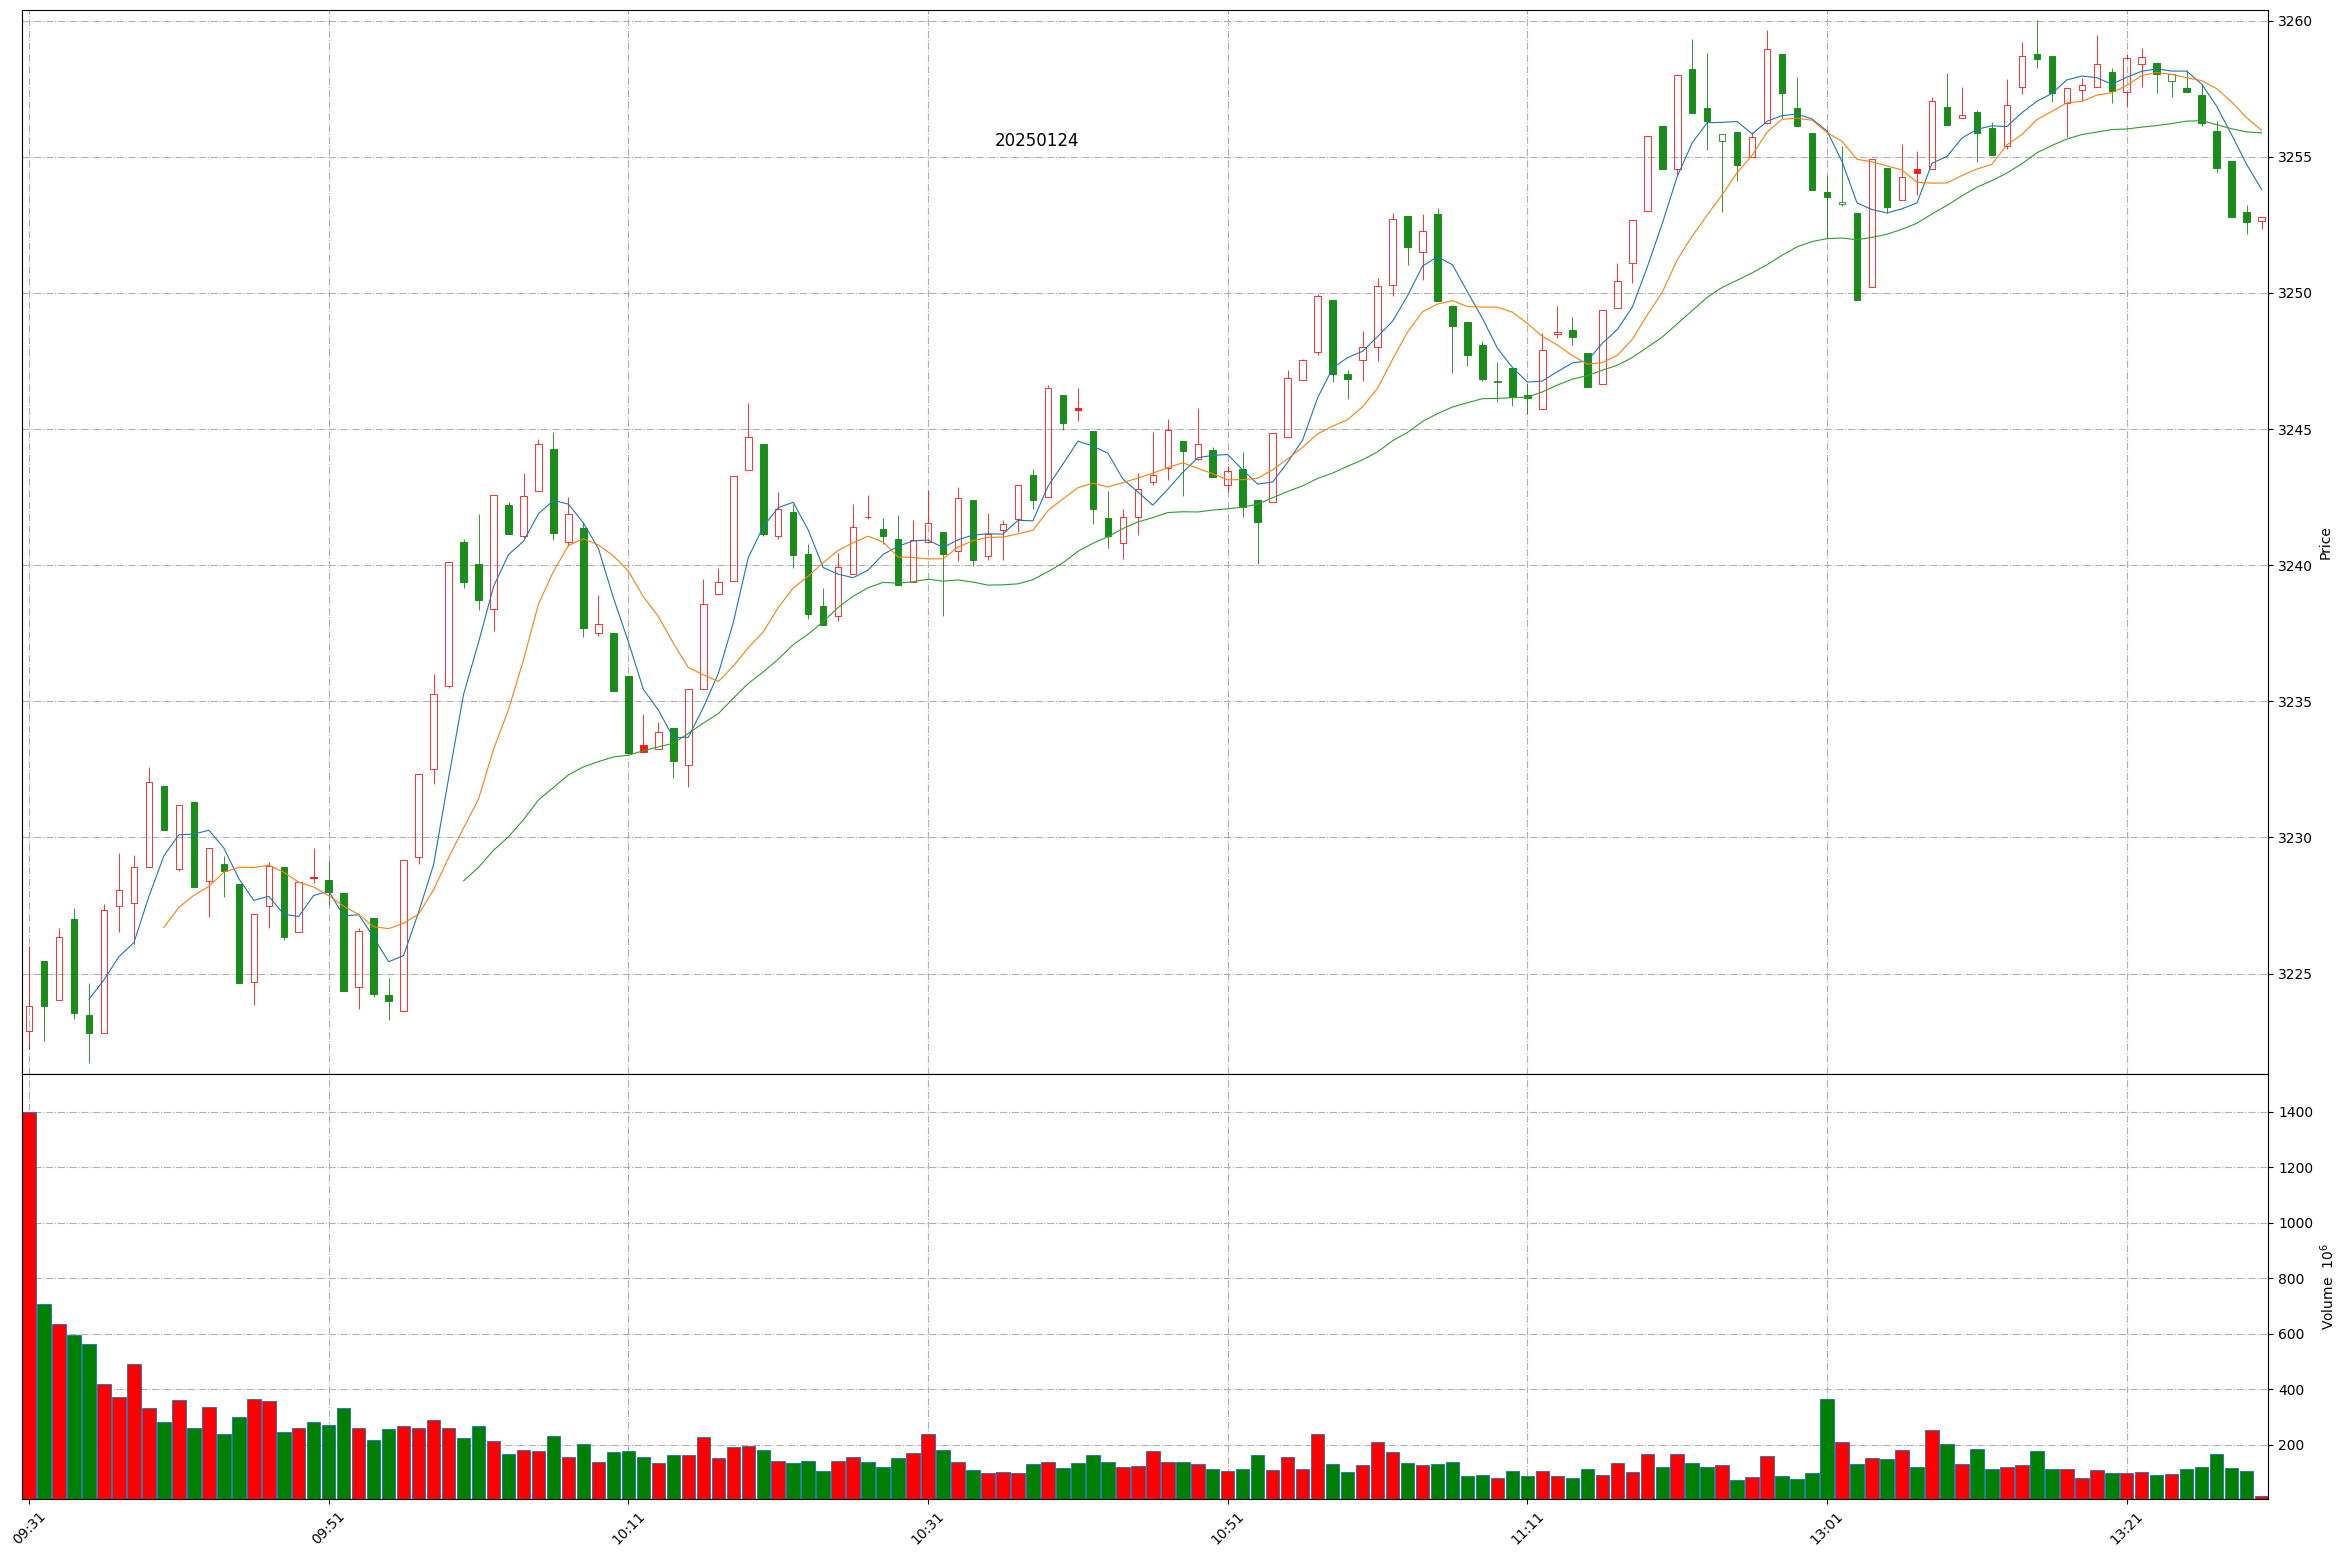
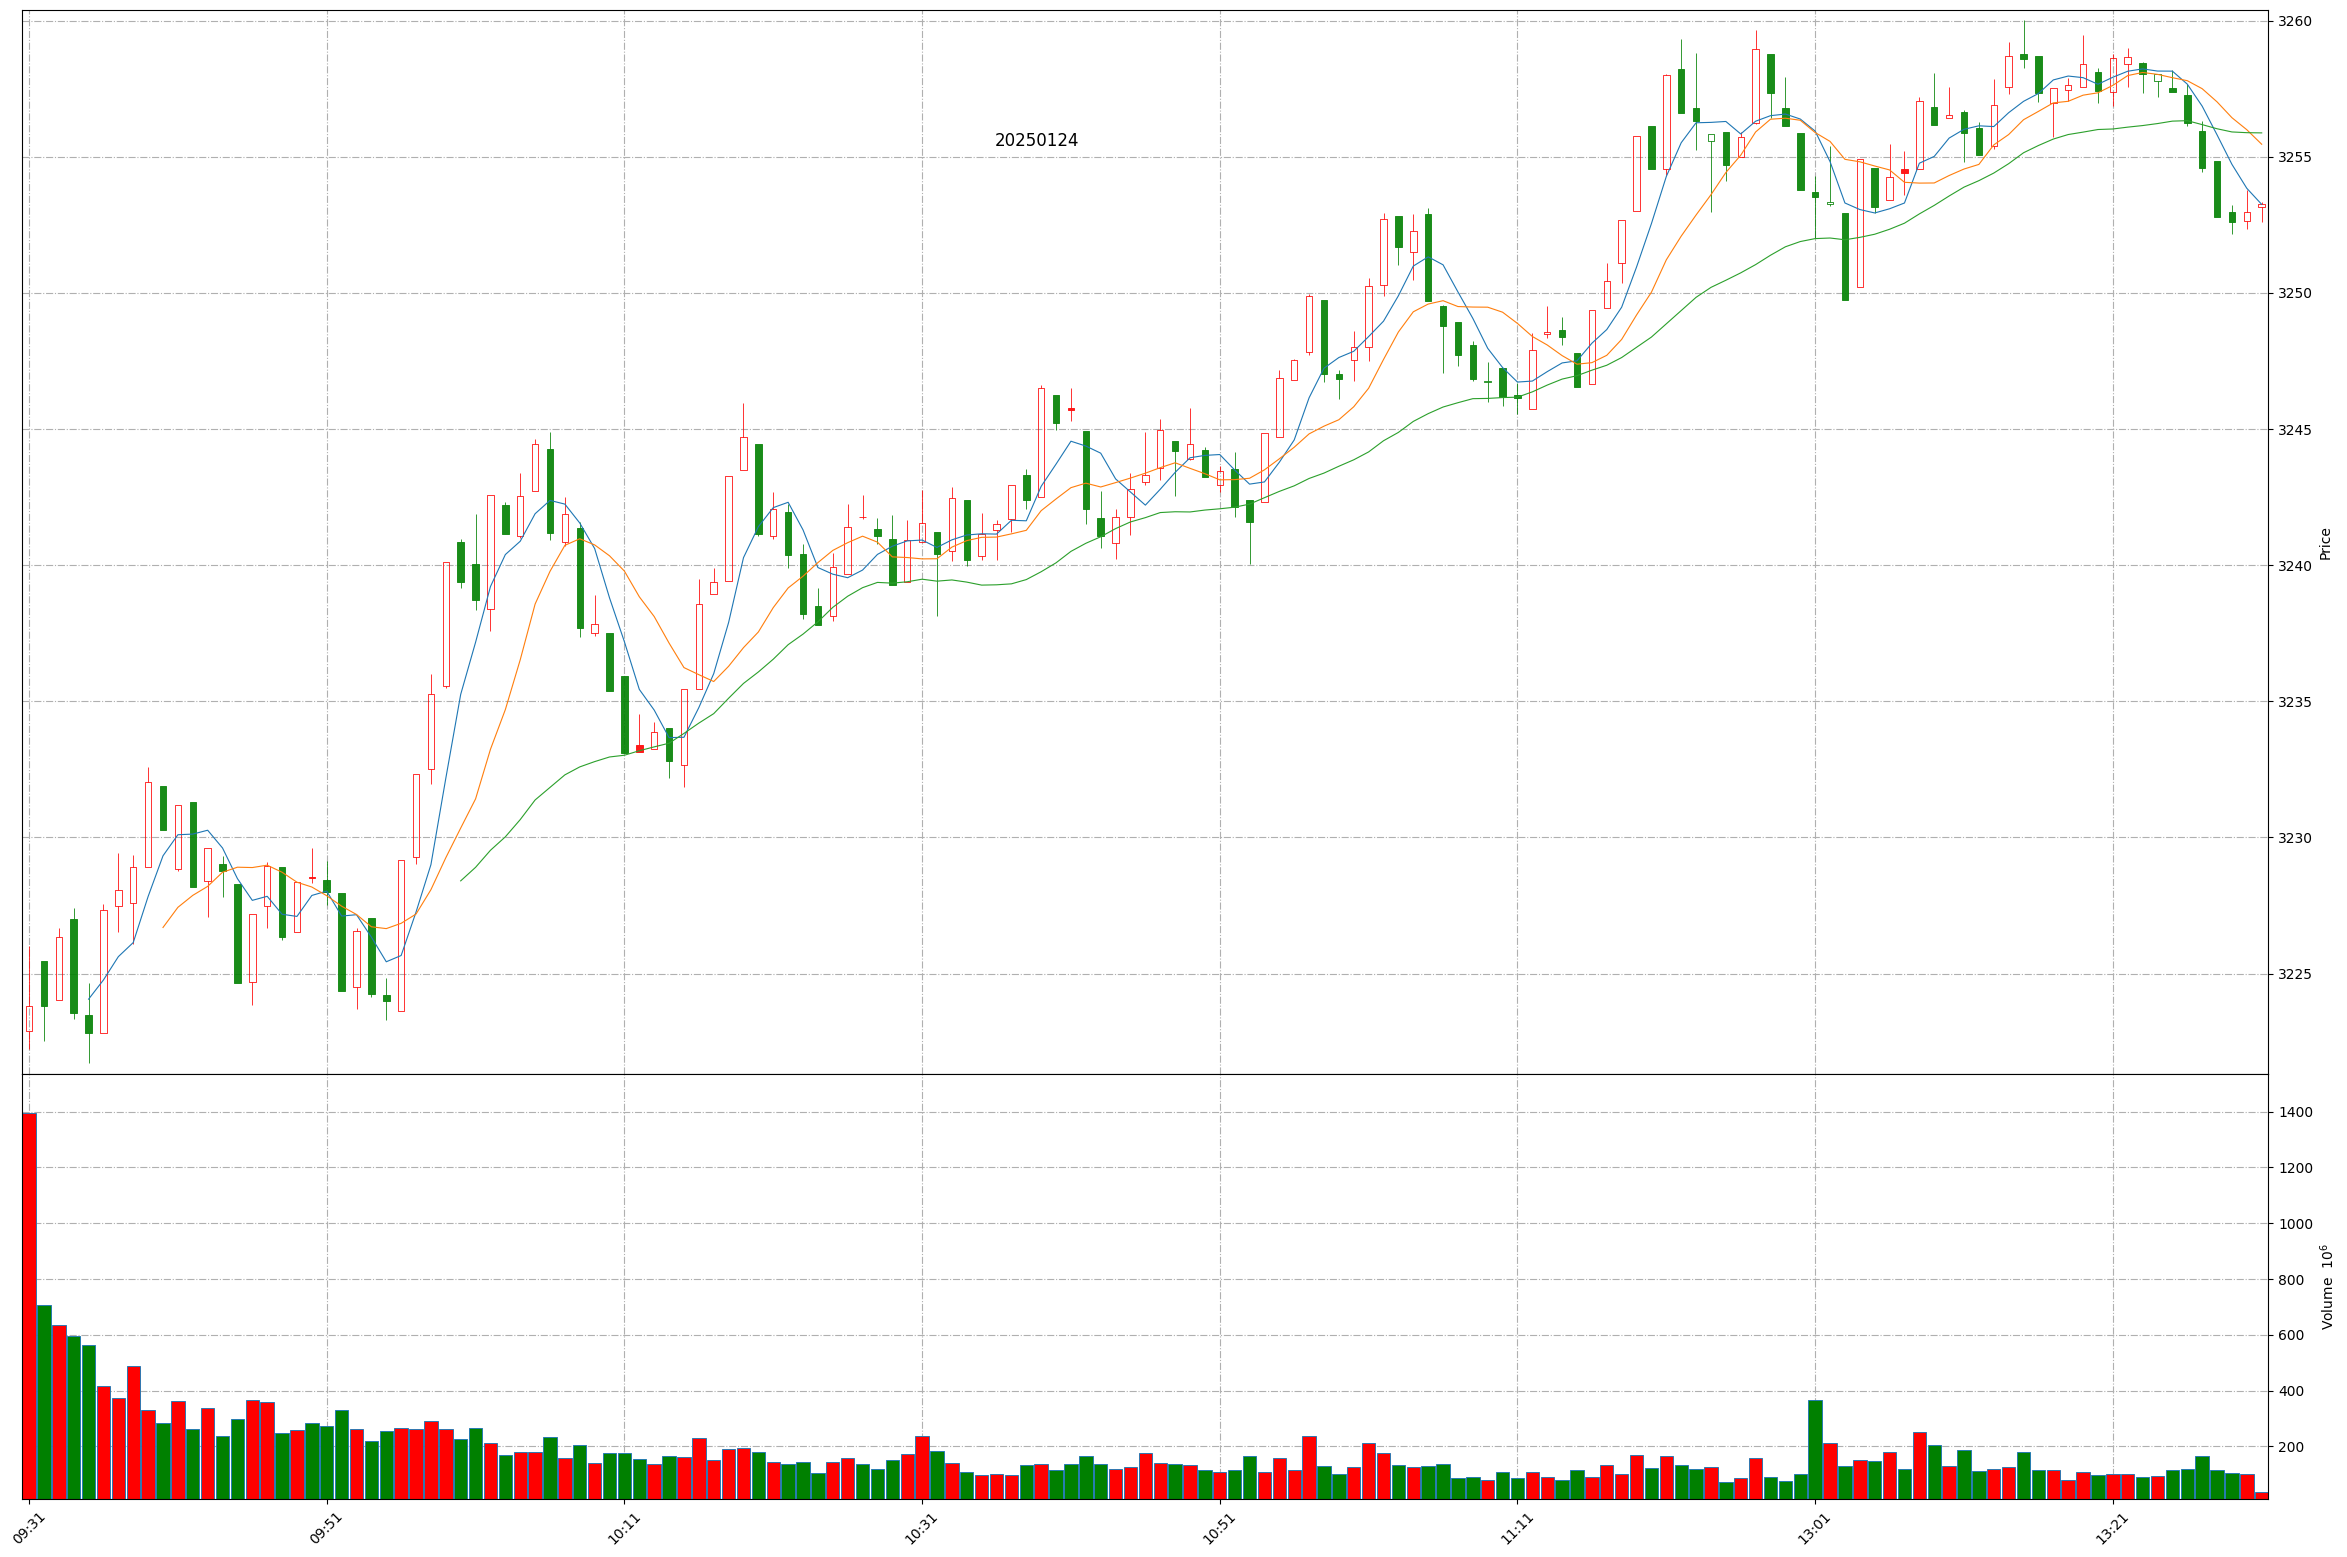
Github action update at 2025-01-24 13:30:38.

diff --git a/README.md b/README.md
@@ -1,11 +1,11 @@
 
 # Daily-A-share-market-quotes 每日 A 股指数（5min 更新）- 20250124
 
-### 上证指数 20250124 13:29
+### 上证指数 20250124 13:30
 ![](./fig/2025/1/20250124-sh000001.png)
 
-### 深证成指 20250124 13:29
+### 深证成指 20250124 13:30
 ![](./fig/2025/1/20250124-sz399001.png)
 
-### 北证50 20250124 13:29
+### 北证50 20250124 13:30
 ![](./fig/2025/1/20250124-bj899050.png)
